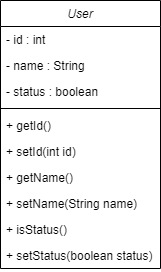
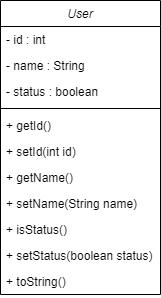
Adding toString() examples

diff --git a/Fundamentos/Encapsulamiento/src/test/TestUser.java b/Fundamentos/Encapsulamiento/src/test/TestUser.java
@@ -11,11 +11,16 @@ public class TestUser {
         // 2. creating object of User class
         User user1 = new User(0001, "Andrew", true);
         System.out.println("DEFAULT VALUES");
-        System.out.println("user1.getId() = " + user1.getId());
-        System.out.println("user1.getName() = " + user1.getName());
-        System.out.println("user1.isStatus() = " + user1.isStatus());
         
-        // 3. asking for some info
+        // 3. printing default values
+        //System.out.println("user1.getId() = " + user1.getId());
+        //System.out.println("user1.getName() = " + user1.getName());
+        //System.out.println("user1.isStatus() = " + user1.isStatus());
+        
+        // 3v2.0v printing def. values with toString() method
+        System.out.println(user1); // println() detects toString()
+        
+        // 4. asking for some info
         System.out.println("");
         System.out.println("MODIFIED VALUES");
         System.out.print("Insert id: ");
@@ -25,9 +30,12 @@ public class TestUser {
         System.out.print("Insert status (true/false): ");
         user1.setStatus(Boolean.parseBoolean(scanner.nextLine()));
         
-        // 4. returning with new info
-        System.out.println("user1.getId() = " + user1.getId());
-        System.out.println("user1.getName() = " + user1.getName());
-        System.out.println("user1.isStatus() = " + user1.isStatus());
+        // 5. returning with new info
+        //System.out.println("user1.getId() = " + user1.getId());
+        //System.out.println("user1.getName() = " + user1.getName());
+        //System.out.println("user1.isStatus() = " + user1.isStatus());
+        
+        // 5v2.0 returning with toString() method
+        System.out.println(user1.toString());
     }
 }

diff --git a/Fundamentos/Encapsulamiento/src/test/TestPersona.java b/Fundamentos/Encapsulamiento/src/test/TestPersona.java
@@ -13,6 +13,10 @@ public class TestPersona {
         
         // 3. se imprime el nuevo name con el getter
         // System.out.println(persona1.name); - modificador acceso privado
-        System.out.println("persona1.getName() = " + persona1.getName());
+        // System.out.println("persona1.getName() = " + persona1.getName());
+        
+        // 3v2.0. se imprime todo el content de objeto persona1 con toString()
+        // System.out.println(persona1.toString());
+        System.out.println(persona1); // toString() es detectado por print/ln() 
     }
 }

diff --git a/Fundamentos/Encapsulamiento/src/dominio/Persona.java b/Fundamentos/Encapsulamiento/src/dominio/Persona.java
@@ -40,4 +40,10 @@ public class Persona {
     public void setDeleted(boolean deleted) {
         this.deleted = deleted;
     }
+    
+    // 4. creando metodo toString()
+    public String toString() {
+        return "Persona: [name: " + this.name + 
+                ", salary: "+ this.salary + ", deleted: " + this.deleted + "]";
+    }
 }

diff --git a/Fundamentos/Encapsulamiento/src/dominio/User.java b/Fundamentos/Encapsulamiento/src/dominio/User.java
@@ -40,4 +40,10 @@ public class User {
     public void setStatus(boolean status) {
         this.status = status;
     }
+    
+    // 4. defining toString() method
+    public String toString() {
+        return "User: [id: " + this.id + ", name: " + this.name +
+                ", status: " + this.status + "]";
+    }
 }
